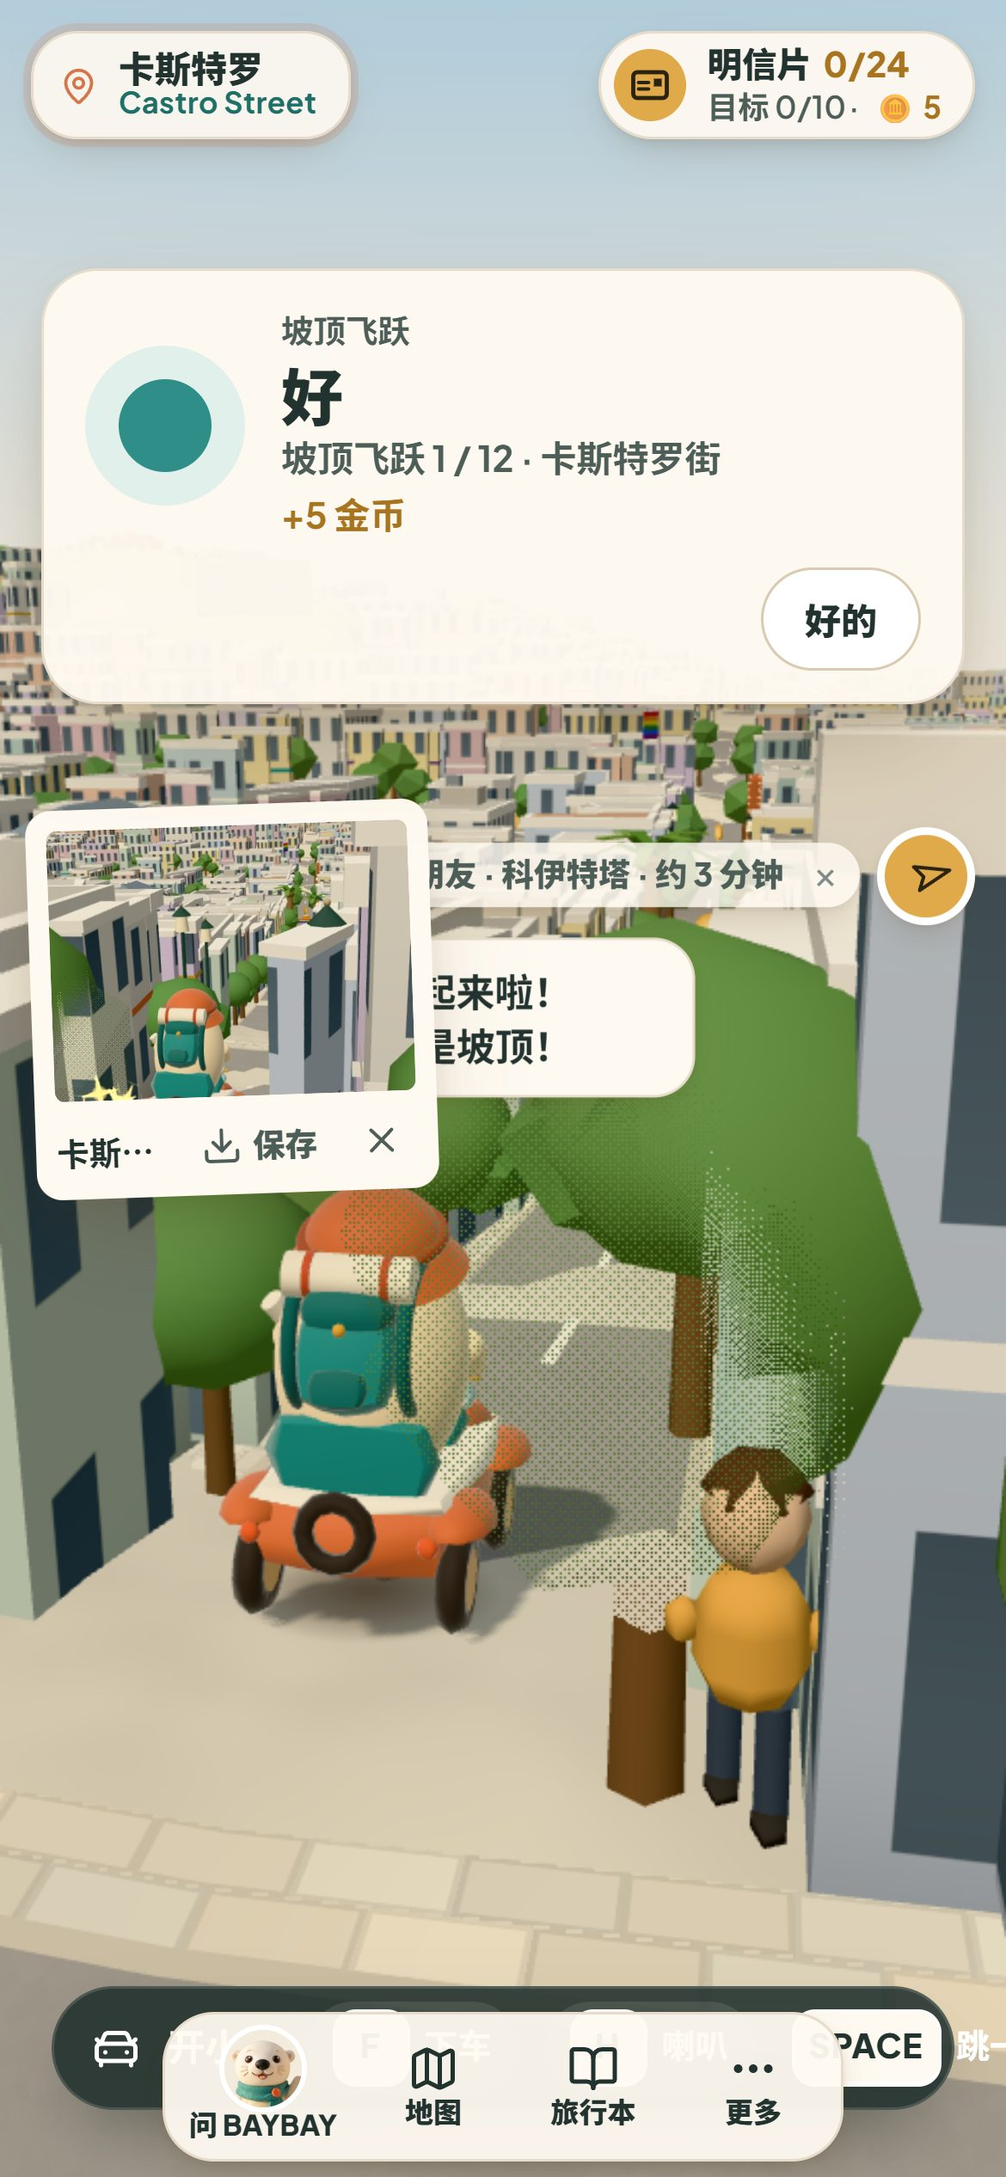
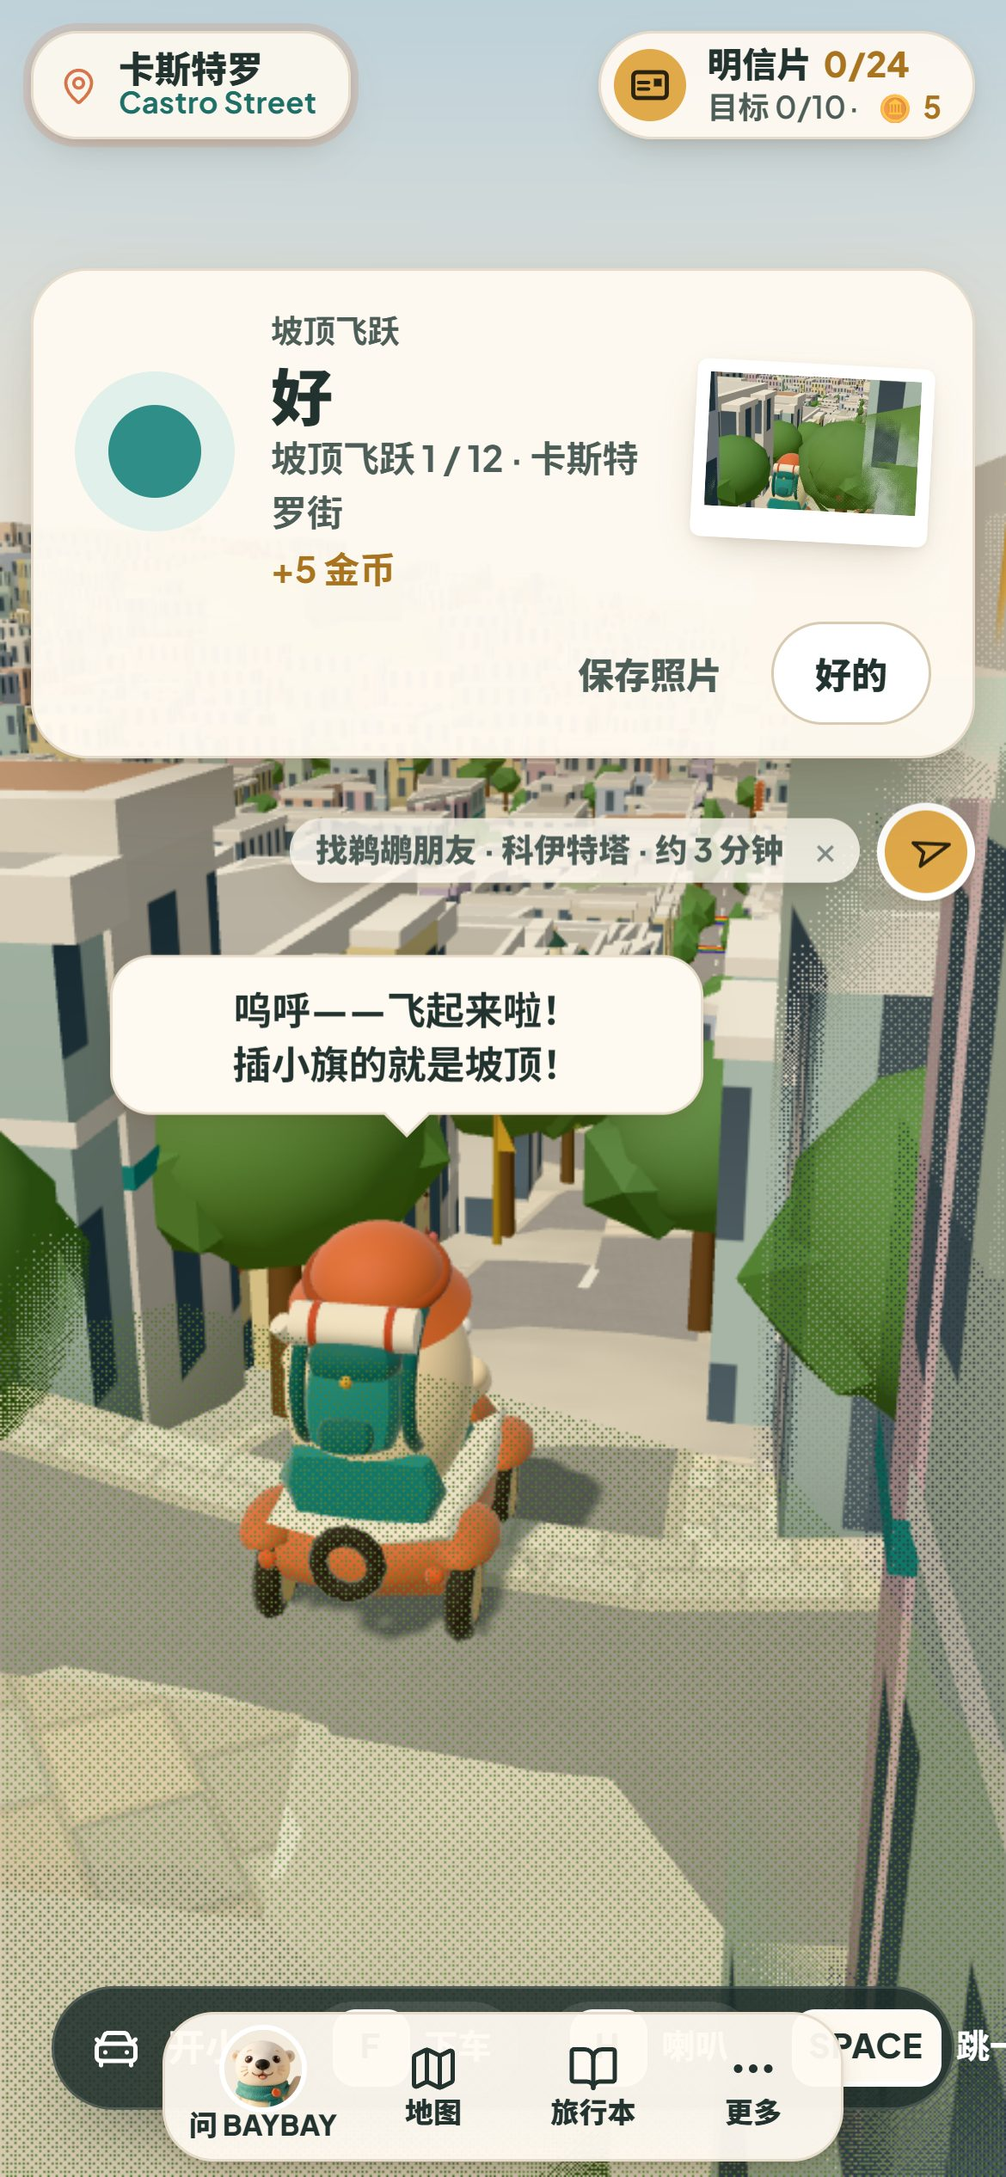
W5-A10: report — "## Part c" (给主人的摘要; what was built: CP-9 and the nine should activities; evidence with the checks, the tests, the chunks, desktop + phone play of every activity, the six fixes found in the game, the facts read on 2026-09-28 and the PERF-LOCK overlap; decisions, known gaps, not done

diff --git a/docs/opus-bay/sf-w5-A.md b/docs/opus-bay/sf-w5-A.md
@@ -197,3 +197,87 @@ New BAYBAY lines (zh ≤ 45; VOICE glossary), for lane V's voice pass (tag `A`):
 - **V**: budget: the slides add +1 draw call and 24 triangles while a ride runs at the Seward slides (Corona Heights, not downtown), own material on the `ob-toy-inst` program (warm-up key `a-play-cardboard`); the stair races and the bell add nothing to the scene. Voice (H5-3): the part-b lines above, tag `A`.
 - **E**: the notebook may show the steps (`play.b.steps`, `steps-today` with `steps-day`) and the bests (`slides`, `bell`, `stairs-filbert`, `stairs-tiled`); 12 new medal sources go to `play.e`.
 - **T**: nothing needed — the bell pad sits in the ride banner through `registerRidePad('bell')`; H is left to the gripman's bell except while the riff runs.
+
+## Part c
+
+### 给主人的摘要
+
+1. 检查点问题修好了：海浪风琴的看风景点挪到防波堤根部（原来的尖端走不到），科伊特塔和科罗娜高地的点也挪到空地上，16 个看风景点都有测试保证走得到。
+2. 新加 9 个小玩法：海滩篝火烤棉花糖（只在真实开放季节和时间）、叮当车转盘"嘿咻推"、全城 12 个坡顶开车飞跃（会拍一张照片）、数海狮、和 BAYBAY 玩飞盘、颠沙滩球、草坡纸板滑草、九曲花街 / 佛蒙特街慢慢开、金门大桥绕塔金圈。
+3. 电脑和手机都实际玩过、截图看过；玩的时候发现 6 个问题当场修好（比如数海狮的按键被拍照点抢走、坡顶飞起来没算数）。
+4. 还没做成的：九曲花街开车下坡（现在车子过不了第一个弯，已请地标线和移动线看）、捉迷藏（可选）。
+5. 流程上的失误：有一次截图时性能测试锁还在（约 13:34 PDT），已如实报告给 V 线。
+
+### What was built
+
+| file | what |
+|---|---|
+| `play/viewSpots.ts` (CP-9) | The Wave Organ's spot sits at the spit's root on Yacht Road looking out to the organ (the tip is a 3 u walk the nav does not reach); Coit and Corona Heights a few steps onto open ground; a test holds all 16 spots to the walk sweep's rule (a nav path, ≥ 3 of 4 ways move ≥ 3 u). |
+| `play/zones3.ts` (own chunk, 4.9 KB, loaded by `zones.ts` at init, city only) | Part c's zones: the 8 burning fire rings' prompts (烤棉花糖 / 几点能生火？ by lane R's `isFireRingLit`), the heave-ho prompt that follows lane T's `turntableNear()`, lane F's `vehicle:hop` crest → `crests.crestHop`, the pennants near a crest, 数海狮 on the K-Dock rail (6 u along from the photo viewpoint), 玩飞盘 / 玩沙滩球 in 问 BAYBAY on grass or sand, 滑草 where you stand on a lawn steeper than 1 in 4 (never over another prompt), the crooked blocks' starts (a rider going down; on foot, top → bottom), BAYBAY's invites. |
+| `play/toyMesh.ts`, `sounds3.ts`, `partc.ts` (shared, 1.3 / 0.7 / 0.8 KB) | One instanced prop helper (a material per object kind on the `ob-toy-inst` program, instance colours, its warm-up), the synthesized crackle / flare / chomp / heave / pop, and the helpers (walk-up, a pose hold, `holdKeys` — an activity's keys captured at the window). |
+| `play/marshmallow.ts` (4.8 KB) | 烤棉花糖 at a lit ring: the pair seated on the sand either side of the fire, hold E / Space / 按住烤 to toast, let go at golden (the colour, the chip's gauge with the golden band, 白白的 → 金黄 → 焦黄); held too long it catches fire and BAYBAY swaps hers with yours (焦焦脆脆的归我). ● 好 / ◆ 很好 / ★ 太棒了 by how golden, 金黄度 best kept. |
+| `play/heave.ts` (2.0 KB) | 嘿咻，推！ while a Powell car turns on a turntable near you: BAYBAY calls 嘿— / 咻！ on lane T's 1.2 s `turntableBeat()`, a push on the 咻 (PlayKit `RhythmJudge`, ±150 ms, learnt offset) is `pushTurntable(id, 2)`, off it 1; the card when the car has turned; the three turntables kept (`heave-tt`), a stamp once all three are pushed. |
+| `play/crestSpots.ts`, `crests.ts`, `CrestSnap.tsx` (2.3 + 0.6 KB) | 12 crests found by a drive sweep of the published city (append-only); lane F's `vehicle:hop crest` at one (or on its run-up, 26 u before it) counts it once: the card ● the first, ◆ 6, ★ all 12, with a 4:3 snapshot of the hop's top (保存照片 only when tapped); later hops show the polaroid alone; two pennants per crest (one InstancedMesh near one). |
+| `play/sealions.ts`, `SeaLionBadges.tsx` (2.7 + 0.9 KB) | 数海狮: the camera over K-Dock (end-on on a portrait screen so all 19 toy lions show), tap each once (desktop: click, or E for the one nearest the middle) → its number and a bark (`sea-lion` event); 数好了 any time; all of them ★. |
+| `play/frisbee.ts` (3.2 KB) | 玩飞盘: tap the ground to throw (5–14 u, an arc; E: ahead where the camera looks, round a bench), BAYBAY runs for it — there first she catches it (飞身接住 when long), else fetches it; five throws, ● 1 / ◆ 3 / ★ 5 catches. |
+| `play/ball.ts` (2.9 KB) | 玩沙滩球: a floaty ball, BAYBAY serves, turns alternate; your feet walk under it and a tap on its shadow (gold when it is low; desktop click / E / Space) bumps it; ● 3 / ◆ 8 / ★ 15 bumps. |
+| `play/sled.ts` (3.1 KB) | 滑草: a sheet of the slides' cardboard down the fall line (toy gravity less the rub; A D / the stick steer, Space / 跳 leans back, faster; off the grass it stops); BAYBAY runs beside; ● 6 / ◆ 15 / ★ 30 u. |
+| `play/crookedCourses.ts`, `crooked.ts` (2.0 KB) | Lombard (Hyde → Leavenworth) and Vermont (20th → 22nd): riding into the top going down starts the gentle descent (the chip's gauge against the 5 mph sign, lane F's bumps; ● down / ◆ ≤ 1 bump and hardly over / ★ none and never over); on foot, top → bottom brings BAYBAY's tease (Vermont measured curvier) or Vermont's fact, and her verdict once both are done. |
+| `play/ggbRings.ts` + `firstFlight.ts` course `ggb` | 金门大桥金圈: 8 rings in a figure-eight round both towers (each passed 16 u abeam on both sides, three crossings over the main cables, ≈ 556 u / 40 s), started by gliding within 240 u of the bridge's middle with fewer than 8 flown (once a visit, from the nearer end; on foot within 200 u BAYBAY invites); the first flight's run with its own id and name, the rings drawn without coins (a draw range of the torus), paid by the medal; BAYBAY's two bridge facts on the way. |
+| `kit.ts`, `ResultCard.tsx`, `PlayChip.tsx`, `play.css`, `index.ts` | The card can carry a photo (保存照片); the chip a gauge (`meter`) and the fire / slide / stairs icons; the gauge, snap, lion badge styles; 坐下看风景 is not offered while an activity runs. |
+
+New BAYBAY lines for lane V's voice pass (tag `A`, zh ≤ 45): 篝火烧着呢！一起烤个棉花糖？ · 海滩篝火季是 3 月到 10 月底，春天再来烤棉花糖！ · 海滩篝火只能早上 6 点到晚上 9 点半生哦！ · 按住烤，变金黄就松手～ · 还白着呢，再烤一会儿～ · 着火啦！呼——快吹灭！ · 焦焦脆脆的归我，金黄的给你！ · 金黄金黄的！外脆里软～ · 好香！颜色刚刚好～ · 还有点白，下次多烤一会儿～ · 有点焦了，也挺香！ · 真的来这儿要自带柴火，走前用水把火浇灭哦！ · 车要掉头啦！跟着我喊：嘿——咻！ · 跟着我喊：嘿——咻！咻的时候推！ · 咻！正好！ · 叮当车终点的转盘是人力推的，车就这样掉头！ · 三个转盘都推过啦！盖个章～ · 前面坡顶插着小旗，开快点冲过去能飞起来！ · 呜呼——飞起来啦！插小旗的就是坡顶！ · 再飞一次！ · 全城 12 个坡顶都飞过啦！ · 看，K 码头上好多海狮！数数有几只？ · 一只、两只……一起数数有几只海狮！ · 全数到啦！一只都没漏！ · 这些海狮 1990 年起就在 K 码头安家啦！ · 最多的时候来过 2100 多只呢——2024 年 5、6 月！ · 点一下地面，扔到那儿！我去接～ · 接住啦！ · 飞身接住！ · 差一点！我去捡回来～ · 扔到那边就捡不回来啦，换个地方～ · 我先发球！轮到你时，等影子变金色就点它～ · 还高着呢，等它落下来～ · 哎呀，落地啦！ · 好球！ · 坐稳啦——冲！ · 滑了好远！草地真滑～ · 嘿嘿，找个更陡的坡试试？ · 九曲花街限速每小时 5 英里——慢慢开，别碰到花坛！ · 佛蒙特街只有 7 个弯，可坡更陡——慢一点！ · 九曲花街这一段有 8 个急弯，而且只能往下开哦！ · 有人量过，佛蒙特街其实更弯：弯曲度 1.56 比 1.2！ · 佛蒙特街只有 7 个弯，却被量出比九曲花街还弯！ · 两条都开过啦！论弯，佛蒙特街赢；论花，九曲花街赢～ · 哎哟，碰到啦～ · 金门大桥金圈！绕着两座桥塔飞～ · 桥塔比海面高 227 米，1937 年就通车啦！ · 大桥这种橙色，名字叫“国际橙”！ · 骑上鹈鹕飞到大桥边，有金圈等你！
+
+### Evidence
+
+- **Checks** on the rebased head (pushed): `npx tsc -p tsconfig.app.json --noEmit` 0 · `npx eslint .` 0 errors (43 old warnings outside `src/opus-bay`) · `npx tsx --tsconfig tsconfig.app.json --test tests/opus-bay-*.test.ts` **SUITE_COUNT**.
+- **Tests** (13 new in `opus-bay-w5-play-acts`, one extended in `opus-bay-w5-play`): CP-9 (every view spot reachable by the sweep's rule); the marshmallow (tiers, words, colours, the lit rings and both seats on the sand on the published city, the NPS season and hours, a round in node with the swap); the heave-ho (on the beat 2 / off 1 through lane T's hooks, the card, the set and the stamp); the crests (each of the 12 hopped by the simulated car — and the bike where marked — within 6 u, the run-up rule, the card by the mask, the photo on the card); the sea lions (the rail standable and clear of every POI prompt the city builds, with their radius; taps, 数好了, all → ★); the frisbee (clamped throws, E where the camera looks, catches and fetches, the card); the beach ball; the sled (Dolores Park slides 25 u, leaning back is faster, the ride in node); the crooked blocks (both lanes walkable and downhill, the descent's band and bumps, the on-foot verdict, the ends' radius); the Golden Gate rings (in the model, inside the glide envelope, both towers passed on both sides, three crossings, 30–60 s; the run: the invite, the start by gliding from the nearer end, no ring coins, the medals, the facts); the chunks.
+- **Chunks** (esbuild, minified, gzip): core 5,549 B (≤ 6 KB) · zones 4,736 · zones3 4,869 · firstFlight 3,788 · rings 1,839 · FlightChip 1,443 · marshmallow 4,777 · heave 1,996 · crests 2,287 · CrestSnap 620 · sealions 2,579 · SeaLionBadges 895 · frisbee 3,180 · ball 2,947 · sled 3,141 · crooked 1,971 · shared toyMesh 1,339 / sounds3 699 / partc 777; nothing of `play/` in GameRoot's static graph.
+- **In the game** (dev server 5508, one headless Chrome, `--force_high_performance_gpu`, day, zh; desktop 1440 × 900 high, phone 390 × 844 dpr 3 mid; every image read):
+  - marshmallow (earlier today): toast / night / the burnt swap on desktop, the hold and the card on the phone, the closed line in November; heave-ho at Hyde & Beach after riding the Powell–Hyde car to its end: 4 pushes, 3 on the beat ★ (desktop and phone).
+  - crest hops: Haight St by car on desktop → 坡顶飞跃 1 / 12 · 海特街 with the photo on the card and 保存照片; Castro St on the phone → the same with 卡斯特罗街 (after the run-up fix; 67–93 calls, 218–318k triangles).
+  - sea lions: desktop, E at the new spot → the camera over the floats, 6 E presses → badges 1–6, 数好了 → 数到 6 只海狮 ●; phone, the 数海狮 button → 7 taps → badges, the card (59–72 calls, 190–234k).
+  - frisbee on Marina Green: desktop clicks → BAYBAY catches at 5 and 7.5 u; phone taps → 接住啦！ (58–70 calls, 110–120k).
+  - beach ball on Crissy Field's beach, the Golden Gate behind: desktop and phone rallies of 10 → ◆ 很好 (47–57 calls, 92–113k).
+  - sled at Dolores Park: the 滑草 prompt, 25 u → ◆ on desktop (Space held) and on the phone (59–87 calls, 190–322k).
+  - Lombard on foot: the game's own path follower from Hyde St down the side steps to Leavenworth in 13 s → BAYBAY's line (79–85 calls, 254–301k).
+  - Golden Gate rings: taking off at the south end starts them (金门大桥金圈 金圈 0 / 8 跳过, 金门大桥金圈！绕着两座桥塔飞～); a keyboard-steered flight through all 8 on desktop (card ★ 太棒了 穿过 8 / 8 个金圈 +30) and on the phone (the tower fact at the 3rd, the colour at the 5th); 29–60 calls, 75–202k.
+  - Shots kept (`docs/opus-bay/qa/w5/A/`): `c9-marshmallow-*` (5), `c9-fire-closed-november-phone.jpg`, `c9-heave-*` (3), `c9-crest-pennants-haight-desktop.jpg`, `c9-crest-hop-haight-card-desktop.jpg`, `c9-crest-hop-castro-phone.jpg`, `c9-sealions-prompt-desktop.jpg`, `c9-sealions-count-desktop.jpg`, `c9-sealions-card-desktop.jpg`, `c9-sealions-count-phone.jpg`, `c9-frisbee-throw-desktop.jpg`, `c9-frisbee-catch-phone.jpg`, `c9-beachball-rally-desktop.jpg`, `c9-beachball-card-desktop.jpg`, `c9-beachball-rally-phone.jpg`, `c9-sled-prompt-desktop.jpg`, `c9-sled-slide-desktop.jpg`, `c9-sled-card-phone.jpg`, `c9-crooked-lombard-foot-desktop.jpg` (the on-foot line before it became the tease), `c9-ggb-tower-desktop.jpg`, `c9-ggb-card-desktop.jpg`, `c9-ggb-fact-phone.jpg`; `road-seams-at-crests.txt`. The rest and the scenarios in scratch (`run-shot.mjs` + `scen-c.mjs`).
+- **Found in the game and fixed** (each its own commit): 数海狮 lost the E prompt to the viewpoint's 给海狮拍照 (moved 6 u along the rail; the prompt tests now take every POI the city builds, with radius); BAYBAY said "don't feed them" right after lane D's egg said it (dropped); E threw the frisbee into the bench beside you (now where the camera looks, round obstacles); a fast car hopped 23 u before Castro's pennants and it went uncounted (the run-up counts); the Lombard walk ended 3.4 u off the lane's bottom (the ends are 5 u); the Lombard facts doubled the landmark's bark (the tease only). One scare was the QA script's own: BAYBAY's menu over the beach-ball card came from synthetic key events aimed at the window (reverted the change it prompted).
+- **Facts** (checked on the web 2026-09-28): Ocean Beach fires in the rings between Stairwells 15 and 20, March–October, 6 am – 9:30 pm, out with water (https://www.nps.gov/articles/ocean-beach-fire-program.htm, https://www.parksconservancy.org/parks/ocean-beach-sf-bonfire-fire-pit-san-francisco-marin-parks); the cable cars' manually powered turntables (https://en.wikipedia.org/wiki/San_Francisco_cable_car_system); K-Dock since January 1990, the record over 2,100 in May–June 2024, feeding is unlawful (https://www.pier39.com/sea-lions/); Lombard's eight hairpins, one way down, the 5 mph sign; Vermont's seven turns and a sinuosity of 1.56 vs 1.2 (https://en.wikipedia.org/wiki/Lombard_Street_(San_Francisco), https://en.wikipedia.org/wiki/Vermont_Street_(San_Francisco)); the Golden Gate's towers 746 ft (227 m) above the water, opened May 27, 1937, "international orange" (https://en.wikipedia.org/wiki/Golden_Gate_Bridge). The lion count is the toy dock's 19, never a live number.
+- **Process**: one headless Chrome of mine ran while `PERF-LOCK` existed — the `crest2` runs at about 13:33–13:36 PDT (20:33–20:36Z), while lane V's W5-V11 part-c gate had just set the lock (13:34). Its fps numbers for that window may be off; every later run waited for the lock to go.
+
+### Decisions
+
+1. **The Wave Organ's view spot stays at the spit's root** (the organ's terraces in view), not on the tip the nav cannot reach.
+2. **Part c's zones are their own chunk** (`zones3.ts`), loaded at init next to `zones.ts`; each activity loads when you come near (60 u) or pick it. Shared props, sounds and helpers are one small chunk so every activity stays under 5 KB.
+3. **Real rules only**: the marshmallow follows the NPS season and hours (lane R's `isFireRingLit`); outside them the prompt asks 几点能生火？ and BAYBAY says when.
+4. **No lock where the feet are the game** (heave-ho, frisbee, beach ball) — walking off ends them at no cost; the marshmallow, the sea-lion count and the sled hold the feet.
+5. **The crest photo rides on the first card** (a 4:3 crop of the hop's top), saved only when tapped; the pennants are the crests' only mark in the world.
+6. **The sea lions are the world's own 19** (lane L's floats); badges are HTML over them, nothing new is drawn.
+7. **The Golden Gate rings reuse the first flight** (a course, not a new activity engine) and pay by the medal: the ring coins are lane E's ledger slots.
+8. **The crooked descent starts by itself** when a rider enters the top going down; on foot the blocks give BAYBAY's lines only.
+9. **Hide & seek is not done** (a could; the should list took the part).
+
+### Known gaps
+
+- While an activity whose E is its own runs (sea lions, frisbee, ball), the E prompt still names the nearest thing (和 BAYBAY 聊聊 / 坐下看风景); pressing E does the activity (captured), only the label is wrong (Requests F).
+- Lane D's sea-lion egg line can speak in the middle of a count; lane C's goals card can open over a rally on a phone in a new save (Requests D, C).
+- The crooked descent by car or bike is untested in the game: neither gets past the first hairpins of either lane yet (Requests L / F).
+- The crests: 90 places across steep streets have a strip that cannot be stood on (`road-seams-at-crests.txt`), where a car or a walker can snag.
+- Phone runs steered by keys (the flight, the car) show the desktop ride bar under the phone nav — the emulation, not a touch phone.
+
+### Not done
+
+- Hide & seek (could). The crooked descent in the game (waits for drivable lanes). From part a: the painted view card image; "Karl moves / lights come on at dusk" in the slow look; a shot of the crowd waving back.
+
+### Requests
+
+- **L / F**: the Lombard and Vermont lanes are not drivable by the toy car or the bike in the node physics (refused as `stairs` / `wall` at the first hairpins); once they are, the descent (`play/crooked.ts`) works as it is. The 90 road seams at crests (`docs/opus-bay/qa/w5/A/road-seams-at-crests.txt`), also for V's sweep.
+- **F**: (1) while a PlayKit activity captures E (`partc.holdKeys`), hide the brain's focus prompt or show the activity's verb; (2) optional: a time-scale hook for a short slow-motion at a crest hop; (3) a flame icon for the fire rings' prompt (`play:fire:*`, source `activity`).
+- **C**: hold the goals card / goals step while a PlayKit activity runs (lane A sets `flow.quietUntil` during every activity; `kit.currentActivity()`).
+- **D**: the K-Dock egg's lines could wait for `flow.quietUntil` (it spoke mid-count).
+- **T**: `turntableBeat()` could re-base when the audio clock goes live at the first gesture (`audioNow()` jumps then; a heave-ho started before it judges the first push late).
+- **E**: the Golden Gate rings pay no coins: if coins in them are wanted, an append-only ring slot `ggb-towers` (reserved like `first-flight`) and lane A switches `ringSource`. Lane A's `play.b` keys are now 19 (first-flight, ggb-rings, slides, bell, stairs-filbert, stairs-tiled, steps, steps-today, steps-day, marshmallow, heave, heave-tt, crests, sealions, frisbee, beachball, sled, crooked-lombard, crooked-vermont); about 30 new medal sources go to `play.e`.
+- **V**: budget: each part-c activity adds at most one instanced draw call while it runs or is near (marshmallows 4 × 28 tris, pennants 22 tris each near a crest, the disc, the ball and its shadow 160, the sled's cardboard), own materials on the `ob-toy-inst` program with warm-ups; the rings as before. A bark sound for the `sea-lion` event lane A emits at each counted lion (intensity 1), if lane V's lion audio wants it. Voice: the part-c lines above, tag `A`. The PERF-LOCK overlap above.
+- **L**: optional: the Wave Organ's tip (the organ's terraces) walkable from the spit, so the view spot can move out to it.
